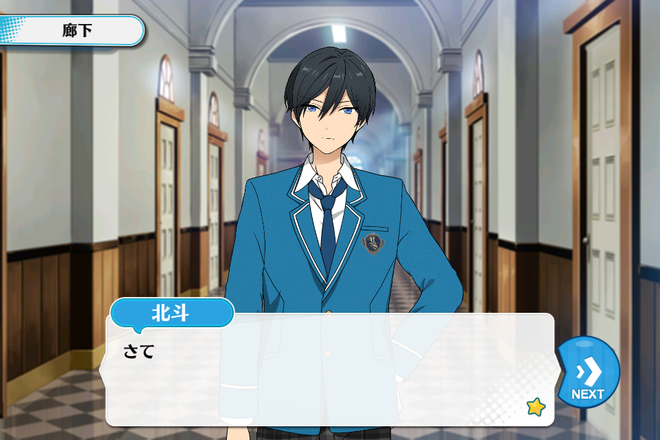
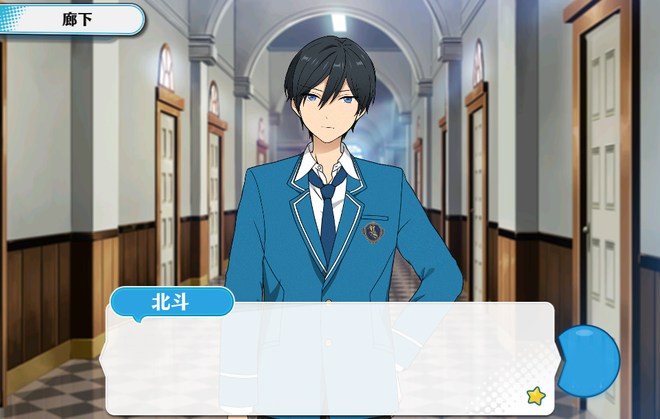
Fixed events Fixed result layouts Fixed A LOT

diff --git a/js/results-view.js b/js/results-view.js
@@ -7,17 +7,20 @@
     var framectr = 0;
 
     var frame = 0;
+    var delay;
 
     var showScoreCard = function() {
         document.getElementById("score-percentage").innerHTML = quizControl.getPercentage() + " %";
         document.getElementById("score").innerHTML = "You got " + quizControl.getScore() + " out of " + app.data.constants.TOTAL_QUESTIONS + "!";
+        layoutButtons();
     };
 
     var layoutButtons = function() {
-        if(quizControl.getPercentage() > 90) {
+        if(quizControl.getPercentage() > 79) {
             var trigger = document.getElementById('view-event-button');
-            trigger.style.display = "block";
-            trigger.addEventListener('click', loveEventTrigger());
+              trigger.style.display = "block";
+              trigger.addEventListener('click', loveEventTrigger);
+            
         }
         else 
             document.getElementById('return-title').addEventListener('click', returnToTitle);
@@ -31,6 +34,8 @@
         document.getElementById("results-container").style.display = "none";
         document.getElementById("event-container").style.display = "block";
         document.getElementById("next-frame").addEventListener('click', imageGet);
+        //initial frame get//
+        imageGet();
     };
 
     var imageGet = function() {
@@ -38,6 +43,14 @@
             document.getElementById("chara-pic").style.backgroundImage = "url('" + eventImage[framectr].image + "')";
             document.getElementById("dialogue").innerHTML = eventImage[framectr].dialogue;
             framectr++
+            if(framectr === eventImage.length - 1){
+              document.getElementById("next-frame").innerHTML = "Go On A Date!";
+              document.getElementById("dialogue-window").style.backgroundColor = "#F5F3BB";
+            }
+            else if(framectr === eventImage.length){
+              document.getElementById("next-frame").innerHTML = "Back To Title";
+              document.getElementById("dialogue-window").style.backgroundColor = "#F5F3BB";
+            };
         }
         else
             returnToTitle();
@@ -47,7 +60,6 @@
     var render = function() {
         document.getElementById("results-container").style.display = "block";
         showScoreCard();
-        layoutButtons();
     };
 
 

diff --git a/js/quiz-view.js b/js/quiz-view.js
@@ -8,13 +8,19 @@
         document.getElementById('quiz-container').style.display = "none";
         app.views.results.render();
     };
+  
+    var quizCallback = function() {
+            //clear choices
+            document.getElementById('quiz-choices').innerHTML = "";
+            (constants.TOTAL_QUESTIONS > quizControl.getTotalAnswered()) ? loadQuestions() : finishQuiz();
+    };
 
     var loadQuestions = function() {
         document.getElementById("quiz-next").style.display = "none";
         
         //render question//
         document.getElementById('quiz-question').innerHTML = quizControl.getQuestion().text;
-        
+
         //render character//
         document.getElementById('quiz-chara').style.backgroundImage = quizControl.getCharacter();
       
@@ -23,7 +29,8 @@
         var c = document.getElementById('quiz-choices')
         for(var i = 0; i < constants.TOTAL_CHOICES; i++){
             c.innerHTML += "<p class='choice' id='" + choices[i].id + "' onClick= 'app.views.quiz.checkAnswer(this.id)'>" + choices[i].text + "</p>";
-        }
+        };
+        
     };
 
     var showAnswer = function(isCorrect, id) {
@@ -35,24 +42,15 @@
         quizControl.checkCorrectAnswer(id);
         var next = document.getElementById("quiz-next")
         next.style.display = "block";
-
+      
+        //add listener for next button
+        next.addEventListener('click', quizCallback, false);
+      
         //remove click event
         var choices = document.getElementsByTagName("p");
         for(var i = 0; i < choices.length; i++){
             choices[i].removeAttribute('onClick');
         }
-
-        //add listener for next button
-        next.addEventListener('click', function() {
-            //clear choices
-            document.getElementById('quiz-choices').innerHTML = "";
-            if(constants.TOTAL_QUESTIONS > quizControl.getTotalAnswered()){
-                quizControl.incrementAnswered(); 
-                loadQuestions();
-            }
-            else
-                finishQuiz();
-        });
     };
 
     var render = function(){

diff --git a/js/data.js b/js/data.js
@@ -4,11 +4,11 @@ app.data = app.data || {};
 
 //CONSTANTS
 var TOTAL_CHOICES = 4;
-var TOTAL_QUESTIONS = 3;
+var TOTAL_QUESTIONS = 5;
     
 //DATA
 var questions = [
-    {"id": "1", "answerId":"4", "imageId": "0", "text": "Tommy was a real <span class=\"underline \"> avid <\/span> model train collector. He inherited the desire to collect because his dad had a collection, too."},
+    {"id": "1", "answerId":"4", "imageId": "0", "text": "Mika was a real <span class=\"underline \"> avid <\/span> model train collector. He inherited the desire to collect because his dad had a collection, too."},
     {"id": "2", "answerId": "8", "imageId": "1", "text": "The boy was caught stealing from the store. His <span class=\"underline \"> larceny <\/span>caught up with him when the owner showed him a video tape."},
     {"id": "3", "answerId": "11", "imageId": "2", "text": "My brother <span class=\"underline \"> loathes <\/span> squid, but he loves it when we have beef stew for dinner."},
     {"id": "4", "answerId": "15", "imageId": "3", "text": "His <span class=\"underline\"> eternal <\/span> light would shine on the people even after his death. He will always be remembered."},
@@ -47,9 +47,10 @@ var images = [
 ];
 
 var eventCg = [
-    {"image": "images/cg1.png", "dialogue": "I see you scored really high on the English Test. Color me impressed."}, 
-    {"image": "images/cg2.png", "dialogue": "I look forward to see how well you do in the next exam."},
-    {"image": "images/cg3.png", "dialogue": "So, um.. Would you like to go on a study date with me?"}
+    {"image": "images/cg1.png", "dialogue": "I see you scored really high on the English Test. Color me impressed."},
+    {"image": "images/cg2.png", "dialogue": "I look forward to how well you'll do in the next exam. I'll do my best as well."},
+    {"image": "images/cg3.png", "dialogue": "So, um.. Would you like to go on a study date with me?"},
+    {"image": "images/cg4.png", "dialogue": ""}
 ];
 
 

diff --git a/css/index.css b/css/index.css
@@ -265,6 +265,23 @@ body{
   color: #26547C;
 }
 
+#view-event-button, #return-title{
+  background-color: #AA4465;
+  text-align: center;
+  font-weight: bold;
+  letter-spacing: 10px;
+  border-radius: 10px;
+  color: #EDF0DA;
+  padding: 10px;
+  margin: 25px auto 0;
+  max-width: 30%;
+  cursor: pointer;
+}
+
+#view-event-button{
+  display: none;
+}
+
 /*END OF RESULTS SCREEN*/
 
 /*EVENT SCREEN*/
@@ -285,29 +302,34 @@ body{
 #chara-pic {
   min-width: 100%;
   min-height: 100%;
-  background-size: cover;
+  background-size: 100%;
   background-repeat: no-repeat;
   position: absolute;
 }
 
 #dialogue-window {
-  opacity: 0.5;
   width: 100%;
-  padding: 100px 0;
+  padding: 5% 0;
   position: relative;
-  margin: 590px auto 10%;
-  background-color: #26547C;
+  margin: 40% auto 10%;
+  opacity: 0.75;
 }
 
 #dialogue {
-  font-size: 36px;
+  font-size: 30px;
   z-index: 5;
   margin: 0 auto;
-  color: #EDF0DA;
+  color: #26547C;
+  opacity: 1;
+  width: 50%;
 }
 
 #next-frame {
   z-index: 10;
+  font-size: 24px;
+  color: #DD7596;
+  margin-top: 15px;
+  cursor: pointer;
 }
 
 /*END OF EVENT SCREEN*/

diff --git a/index.html b/index.html
@@ -42,15 +42,16 @@
       </div>
       <div id="score"></div>
     </div>
-    <div id="view-event-button"></div>
-    <div id="return-title"></div>
+    <div id="view-event-button">Go To Event!</div>
+    <div id="return-title">Return to Title</div>
   </div>
   
   <div id="event-container">
-    <div id="chara-pic"></div>
-    <div id="dialogue-window">
-      <p id="dialogue"></p>
-      <div id="next-frame"> >>>next>>> </div>
+    <div id="chara-pic">
+      <div id="dialogue-window">
+        <p id="dialogue"></p>
+        <div id="next-frame"> >>> NEXT >>></div>
+      </div>
     </div>
   </div>
 </div>

diff --git a/js/quiz-controller.js b/js/quiz-controller.js
@@ -2,7 +2,7 @@
     app.controllers = app.controllers || {};
     
     var constants = app.data.constants;
-    var questions = app.data.questions.slice(0);
+    var questions = app.data.questions;
     var answers = app.data.answers;
     var images = app.data.images;
     var results = app.controllers.scores;
@@ -13,6 +13,7 @@
     
     var getQuestion = function() {
         currentQuestion = questions.splice(pickRandomIndex(questions), 1)[0];
+        totalAnswered++;
         return currentQuestion;
     };
     
